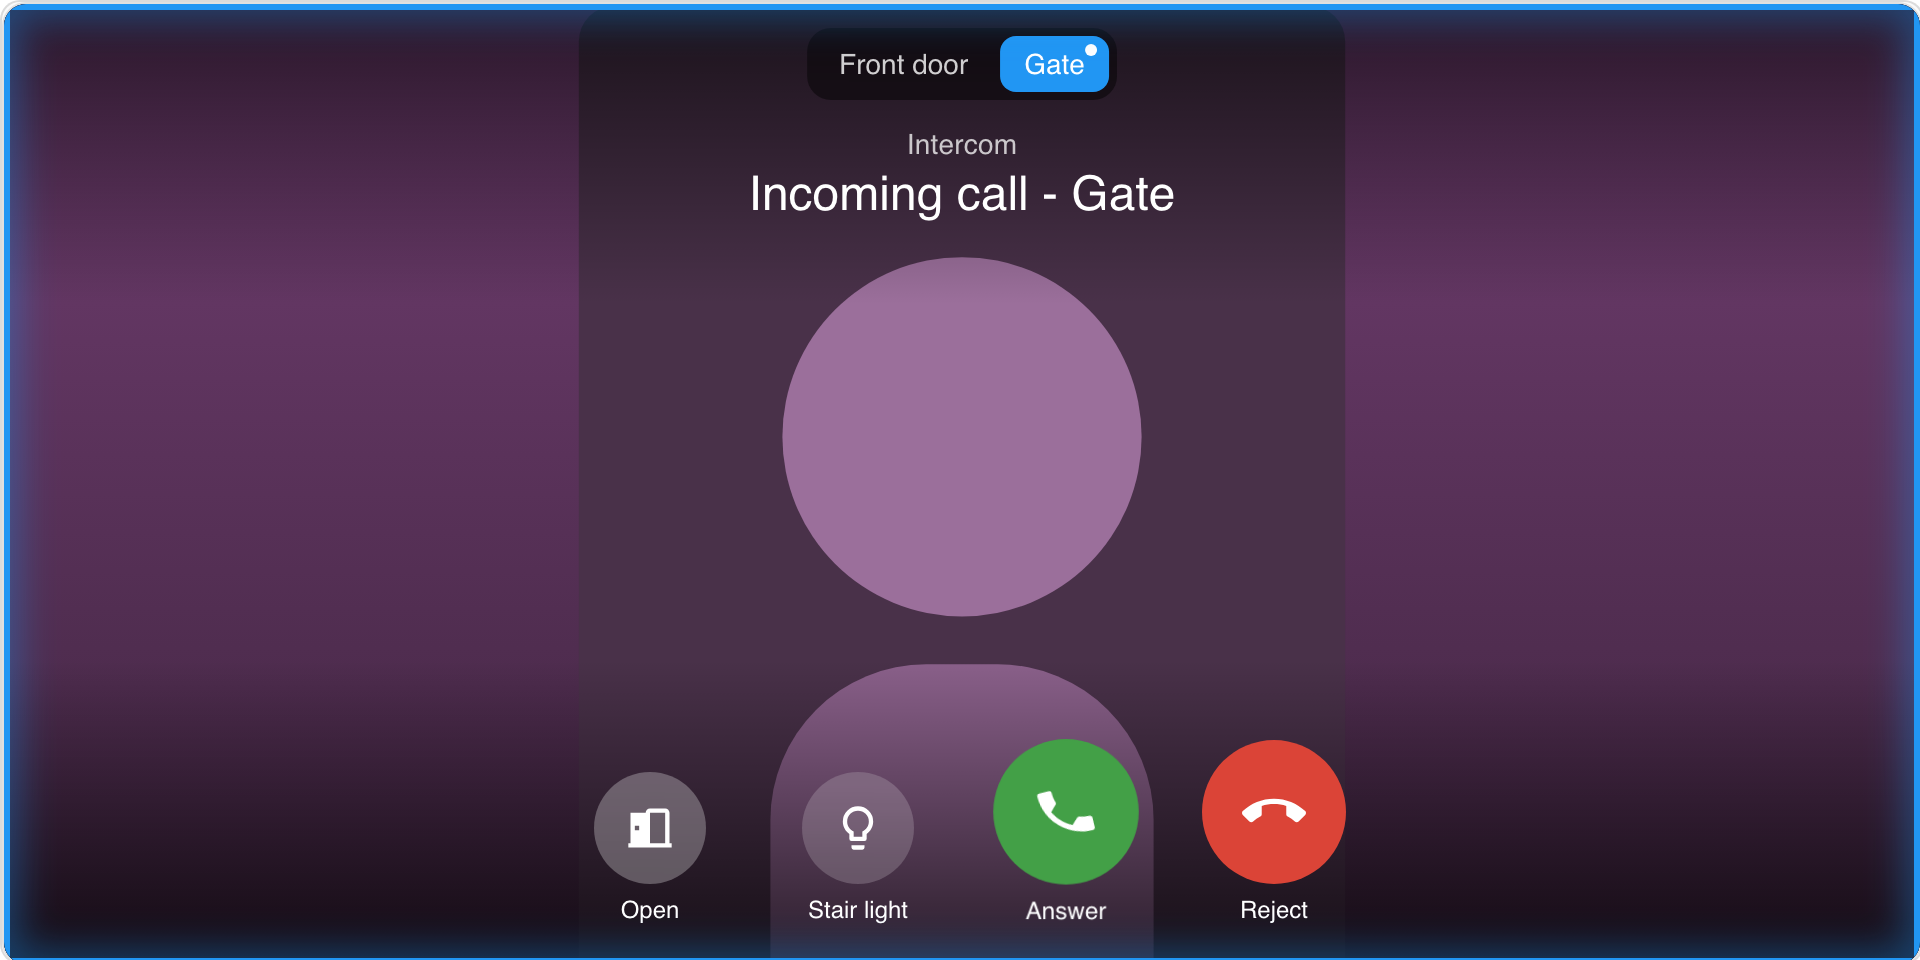
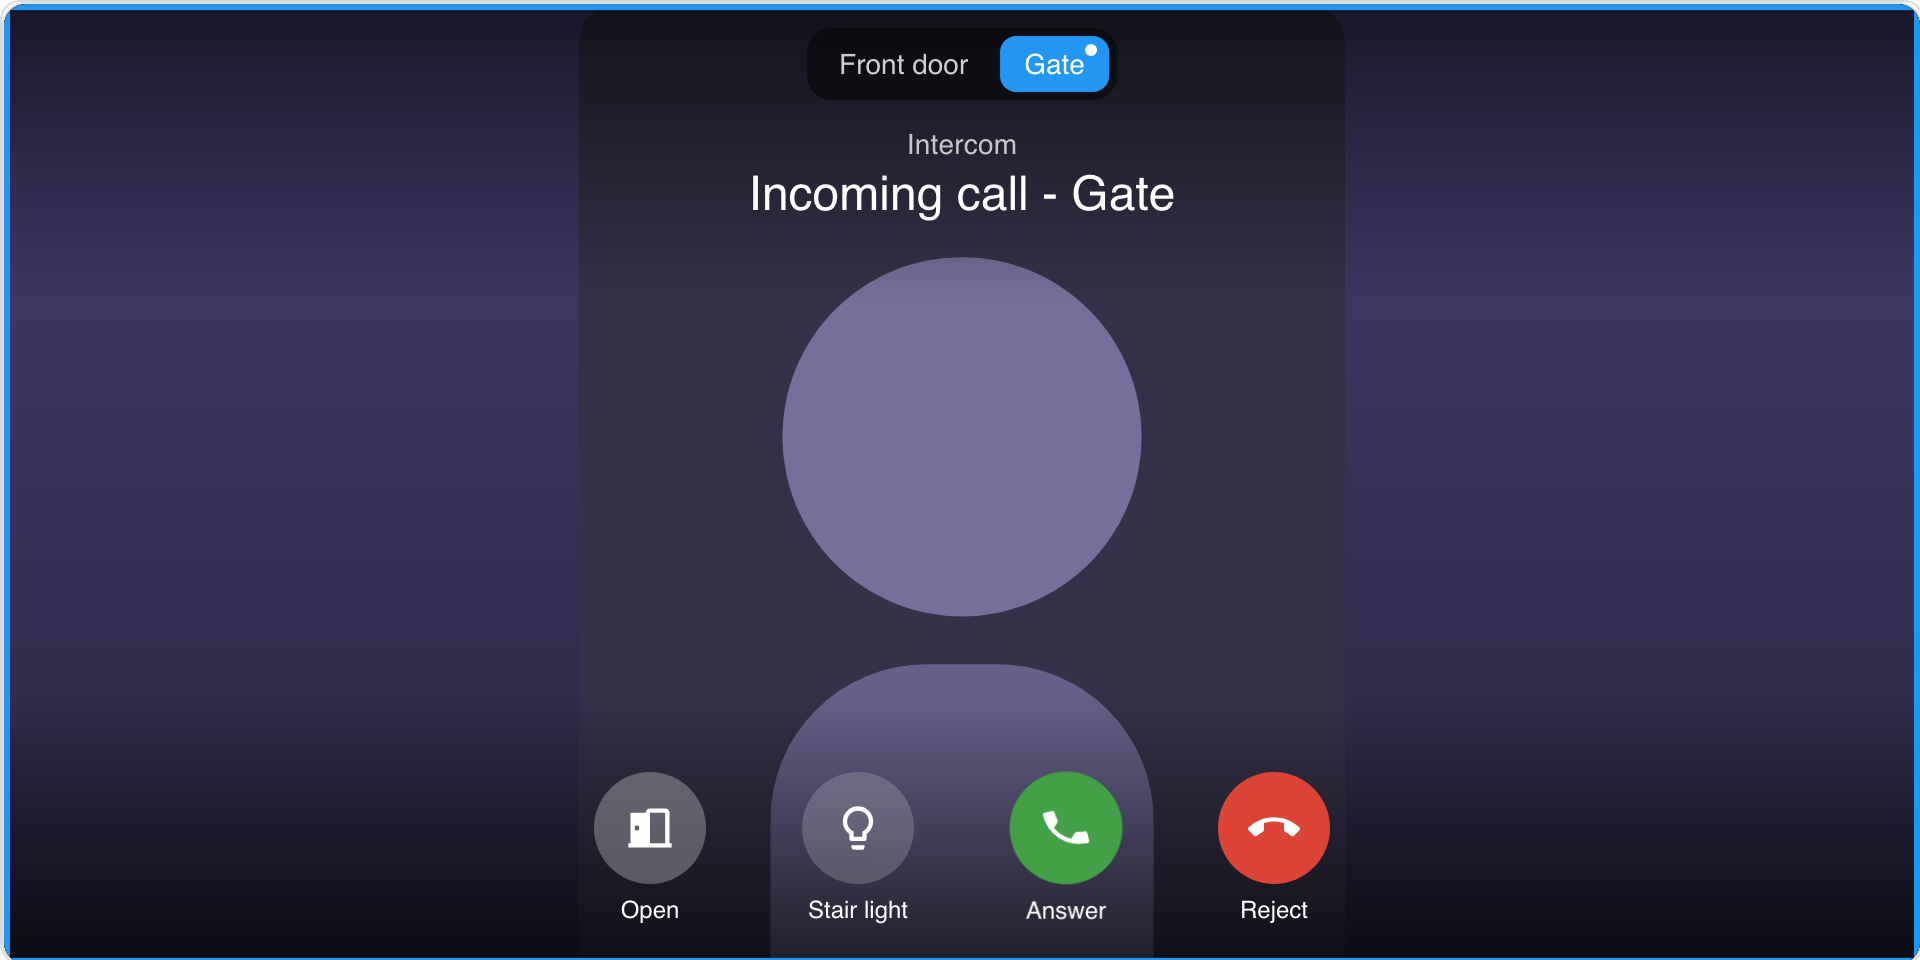
fix: an even row of buttons on the kiosk, and a height to stand in
Answer and reject were drawn larger than the rest, which made the row
read as two sizes of thing when colour already tells them apart. Every
circle is 56px now, and answering keeps the nudge that invites the tap.

The layout also asks the sections grid for a full-width slot six rows
tall, and carries a minimum height of its own: everything on this layout
is positioned over the picture, so a view that hands out no height would
have left an empty card.

diff --git a/dist/bticino-100x-card.js b/dist/bticino-100x-card.js
@@ -1509,6 +1509,9 @@ dialog[open]::backdrop { opacity: 1; }
    entrance, and the one that rings selects itself. */
 [data-layout="kiosk"] {
   position: relative; height: 100%; padding: 0; gap: 0; overflow: hidden;
+  /* a view that hands out no height of its own would leave nothing to see,
+     since everything on this layout is positioned over the picture */
+  min-height: 260px;
   background: var(--bt-screen);
   /* the height is definite here, so the card can be asked about its shape
      and not only its width, which inline-size alone cannot answer */
@@ -1603,11 +1606,7 @@ dialog[open]::backdrop { opacity: 1; }
   display: flex; align-items: center; justify-content: center; height: 56px; --mdc-icon-size: 26px;
 }
 [data-layout="kiosk"] .button .text { display: block; max-width: 100%; }
-/* answering and hanging up are the two that must be found without looking */
-[data-layout="kiosk"] .button.success::before,
-[data-layout="kiosk"] .button.danger::before { width: 72px; height: 72px; }
-[data-layout="kiosk"] .button.success ha-icon,
-[data-layout="kiosk"] .button.danger ha-icon { height: 72px; --mdc-icon-size: 32px; }
+/* answering and hanging up are told apart by colour, so the row stays even */
 
 /* the call controls keep clear of the buttons */
 [data-layout="kiosk"] .stream-controls {
@@ -1828,7 +1827,10 @@ class Bticino100xCard extends HTMLElement {
   }
 
   getGridOptions() {
-    return this._config?.layout === 'device' ? { columns: 12, min_columns: 6 } : { columns: 12, min_columns: 6 };
+    // a call screen is worth the whole width and a definite height; the other
+    // layouts take the height of what is in them, as every other card does
+    if (this._config?.layout === 'kiosk') return { columns: 'full', rows: 6, min_rows: 3, min_columns: 6 };
+    return { columns: 12, min_columns: 6 };
   }
 
   _shouldUpdate(old, hass) {

diff --git a/README.md b/README.md
@@ -169,6 +169,13 @@ colour while it rings, and the tabs float over the top so the entrance that ring
 
 <img src="docs/images/card-100x-kiosk.png" width="860" alt="The kiosk layout: a full-screen call from the gate on a wall tablet">
 
+The name is the use, not a mode Home Assistant has to be in: what the layout needs is a view that
+hands it a height. A **Panel (1 card)** view gives it the whole display, which is what a tablet on
+the wall wants; in a sections view it asks for a full-width slot six rows tall and can be resized
+like any other card. Hiding the header and the sidebar - `kiosk-mode`, Fully Kiosk Browser, View
+Assist - is a separate decision about the page around the card, and the layout does not depend on
+it. Every control stays where it is in the other layouts, free `actions` included.
+
 Buttons for things the integration does not own - a gate on another system, a scene, a script -
 go in `actions`, and appear after the built-in ones:
 
